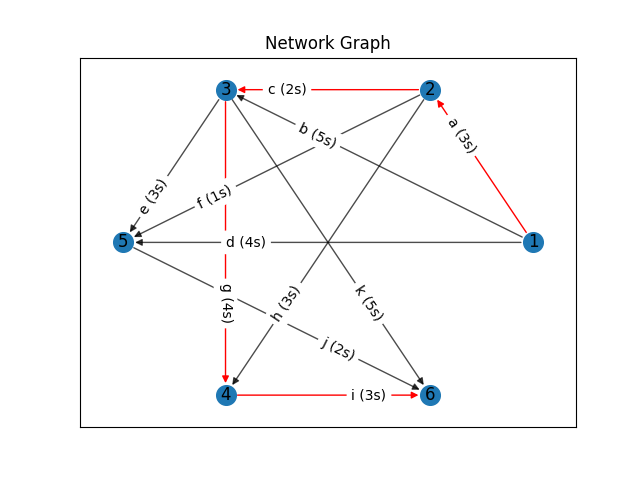
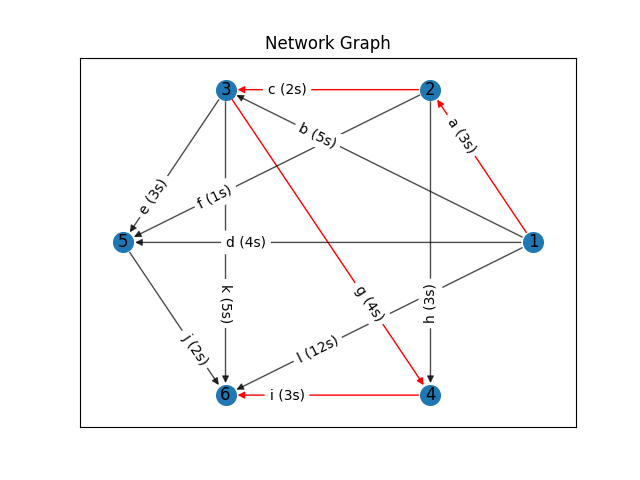
fuck

diff --git a/cpm.py b/cpm.py
@@ -1,4 +1,6 @@
 import numpy as np
+from tools import *
+import copy
 
 
 class Node:
@@ -38,6 +40,16 @@ class Node:
 			self.__is_start = True
 		else:
 			self.__is_start = False
+
+	def delete_in(self, ei):
+		for e in self.__ins:
+			if id(ei) == id(e):
+				self.__ins.remove(e)
+
+	def delete_out(self, eo):
+		for e in self.__outs:
+			if id(eo) == id(e):
+				self.__outs.remove(e)
 
 	def check_if_is_end(self):
 		if not self.__outs:
@@ -116,6 +128,22 @@ class Node:
 
 	def name(self):
 		return self.__id
+
+	def longest_path_to_end(self, g, aim, start_time, hist_mv):
+		if self.outs():
+			for e in self.outs():
+				h = copy.deepcopy(hist_mv)
+				h.append(e)
+				# mv = copy.deepcopy(mv_general)
+				st = copy.deepcopy(start_time)
+				e.to_n().longest_path_to_end(g, aim, st + e.time(), h)
+		else:
+			print('h')
+			print(hist_mv)
+			print('cps')
+			print(g.cps())
+			if start_time >= aim and not g.list_is_list(g.cps()):
+				g.add_cp(hist_mv)
 
 	def __str__(self):
 		pl = ''.join([f'{fe.name()}' for fe in self.ins()])
@@ -228,6 +256,13 @@ class Graph:
 		self.__sn = None
 		self.__ns = None
 		self.__cpt = None
+		self.__cps = []
+
+	def remove_node(self, node):
+		self.__ns.remove(node)
+
+	def add_cp(self, edges):
+		self.__cps.append(edges)
 
 	def update_all_id(self):
 		self.__sn.update().update_id(1)
@@ -238,6 +273,18 @@ class Graph:
 			if not n.is_start() and not n.is_end():
 				n.update_id(i)
 				i += 1
+
+	def list_is_list(self, mv):
+		if len(mv) != len(self.cps()):
+			print('no')
+			return False
+		for i, item in enumerate(mv):
+			if id(item) != id(self.cps()[i]):
+				print('no')
+
+				return False
+		print('yes')
+		return True
 
 	def complete(self):
 		if not find_end(self.nodes()):
@@ -252,6 +299,12 @@ class Graph:
 
 	def cpt(self):
 		return self.__cpt
+
+	def cpn(self):
+		return len(self.__cps)
+
+	def cps(self):
+		return self.__cps
 
 	def nodes(self):
 		return self.__ns
@@ -291,7 +344,7 @@ class Graph:
 		for e in self.edges():
 			e.calculate()
 
-	def pave_critical_way(self):
+	def pave_critical_path(self):
 		cur_node = self.__sn
 		self.__cpt = 0
 		while cur_node.outs():
@@ -300,9 +353,43 @@ class Graph:
 			self.__cpt += ne.time()
 			cur_node = ne.to_n()
 
+	def check_other_paths(self, aim):
+		g2 = copy.deepcopy(self)
+		for n in g2.nodes():
+			if n.times()[2] != 0:
+				for ei in n.ins():
+					ei.from_n().delete_out(ei)
+				for eo in n.outs():
+					eo.to_n().delete_in(eo)
+				g2.remove_node(n)
+		g2.calculate_parameters()
+		g2.__sn = find_start(g2.__ns)
+		cur_node = g2.__sn
+		mv = []
+		general = []
+		cur_node.longest_path_to_end(g2, aim, 0, self.__cps)
+		display_edges_table(g2.edges(), title = 'Help edges', verbose = True)
+		display_nodes_table(g2.nodes(), title = 'Help nodes', verbose = True)
+		print(g2.cps())
+		g2.graphs()
+		self.graphs()
+
+	def do_moves_by_crit_markers(self):
+		mv = []
+		for e in self.edges():
+			if e.is_critical():
+				mv.append(e)
+		self.__cps.append(mv)
+
 	def organize(self):
 		self.merge()
 		self.complete()
 		self.update_all_id()
 		self.calculate_parameters()
-		self.pave_critical_way()
+		self.pave_critical_path()
+		# self.check_other_paths(self.cpt())
+
+	def graphs(self):
+		for i, cp in enumerate(self.cps()):
+			print(cp)
+			show_graph_new(self, cp, i + 1)

diff --git a/input.py b/input.py
@@ -1,5 +1,19 @@
 from cpm import *
 
+# B = {
+# 	'a': Edge('a', 3),
+# 	'b': Edge('b', 5),
+# 	'c': Edge('c', 2),
+# 	'd': Edge('d', 4),
+# 	'e': Edge('e', 3),
+# 	'f': Edge('f', 1),
+# 	'g': Edge('g', 4),
+# 	'h': Edge('h', 3),
+# 	'i': Edge('i', 3),
+# 	'j': Edge('j', 2),
+# 	'k': Edge('k', 5)
+# }
+
 B = {
 	'a': Edge('a', 3),
 	'b': Edge('b', 5),
@@ -11,8 +25,23 @@ B = {
 	'h': Edge('h', 3),
 	'i': Edge('i', 3),
 	'j': Edge('j', 2),
-	'k': Edge('k', 5)
+	'k': Edge('k', 5),
+	'l': Edge('l', 12)
 }
+
+# N = [
+# 	link([], Node(), [B['a']]),
+# 	link([], Node(), [B['b']]),
+# 	link([(B['a'])], Node(), [B['c']]),
+# 	link([], Node(), [B['d']]),
+# 	link([B['b'], B['c']], Node(), [B['e']]),
+# 	link([B['a']], Node(), [B['f']]),
+# 	link([B['b'], B['c']], Node(), [B['g']]),
+# 	link([B['a']], Node(), [B['h']]),
+# 	link([B['h'], B['g']], Node(), [B['i']]),
+# 	link([B['f'], B['e'], B['d']], Node(), [B['j']]),
+# 	link([B['b'], B['c']], Node(), [B['k']])
+# ]
 
 N = [
 	link([], Node(), [B['a']]),
@@ -25,7 +54,8 @@ N = [
 	link([B['a']], Node(), [B['h']]),
 	link([B['h'], B['g']], Node(), [B['i']]),
 	link([B['f'], B['e'], B['d']], Node(), [B['j']]),
-	link([B['b'], B['c']], Node(), [B['k']])
+	link([B['b'], B['c']], Node(), [B['k']]),
+	link([], Node(), [B['l']])
 ]
 
 g = Graph()

diff --git a/tools.py b/tools.py
@@ -86,5 +86,29 @@ def show_graph(g):
 	nx.draw_networkx_labels(G, pos)
 
 	plt.title('Network Graph')
-	plt.savefig('analysed-grah.png', )
+	plt.savefig('analysed-graph.png', )
+	plt.show()
+
+
+def show_graph_new(g, moves, i):
+	G = nx.DiGraph()
+	for e in g.edges():
+		G.add_edge(e.from_n().name(), e.to_n().name(), weight = f'{e.name()} ({e.time()}s)')
+	c_edges = []
+	r_edges = []
+	for e in moves:
+		c_edges.append((e.from_n().name(), e.to_n().name()))
+	for e in g.edges():
+		if (e.from_n().name(), e.to_n().name()) not in c_edges:
+			r_edges.append((e.from_n().name(), e.to_n().name()))
+	pos = nx.circular_layout(G)
+	nx.draw_networkx_nodes(G, pos, cmap = plt.get_cmap('jet'), node_size = 200)
+	nx.draw_networkx_edges(G, pos, edgelist = c_edges, edge_color = 'r', arrows = True, label = f'Critical path {i}')
+	nx.draw_networkx_edges(G, pos, edgelist = r_edges, arrows = True, alpha = 0.7, )
+	nx.draw_networkx_edge_labels(G, pos, font_size = 10, edge_labels = nx.get_edge_attributes(G, 'weight'),
+		label_pos = 0.3)
+	nx.draw_networkx_labels(G, pos)
+
+	plt.title(f'Network Graph {i}')
+	plt.savefig(f'analysed-graph-{i}.png', )
 	plt.show()

diff --git a/main.py b/main.py
@@ -8,7 +8,11 @@ def main():
 
 	display_edges_table(g.edges(), title = 'Analysed edges', verbose = True)
 	display_nodes_table(g.nodes(), title = 'Analysed nodes', verbose = True)
-	show_graph(g)
+
+	g.graphs()
+
+	print(f'The time of Critical path is {g.cpt()}')
+	print(f'There are {g.cpn()} paths with length {g.cpt()}')
 
 	return 0
 
